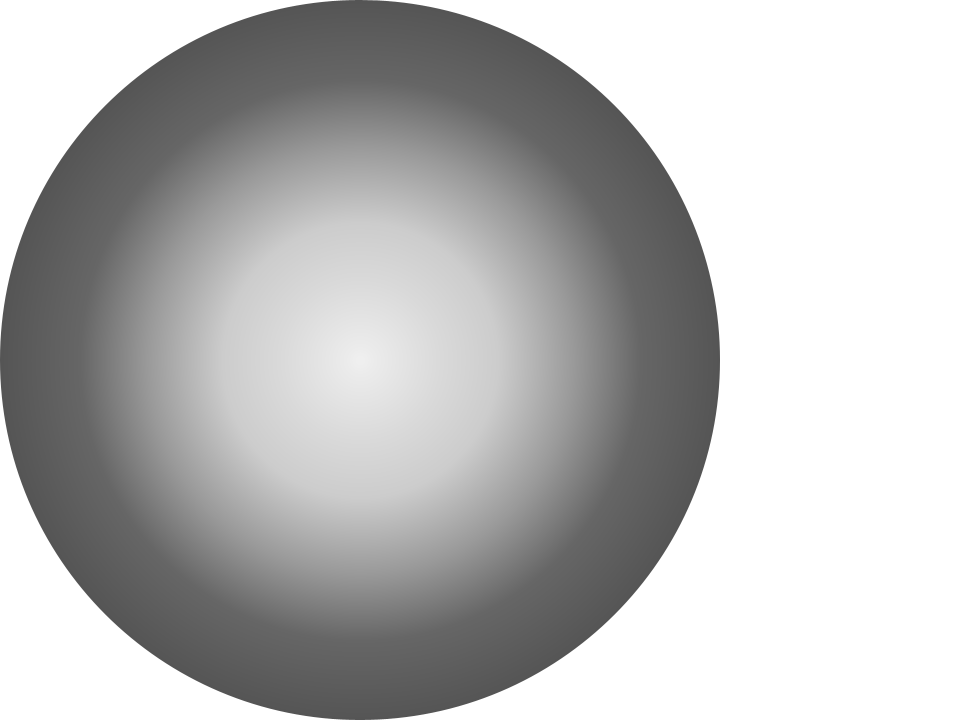
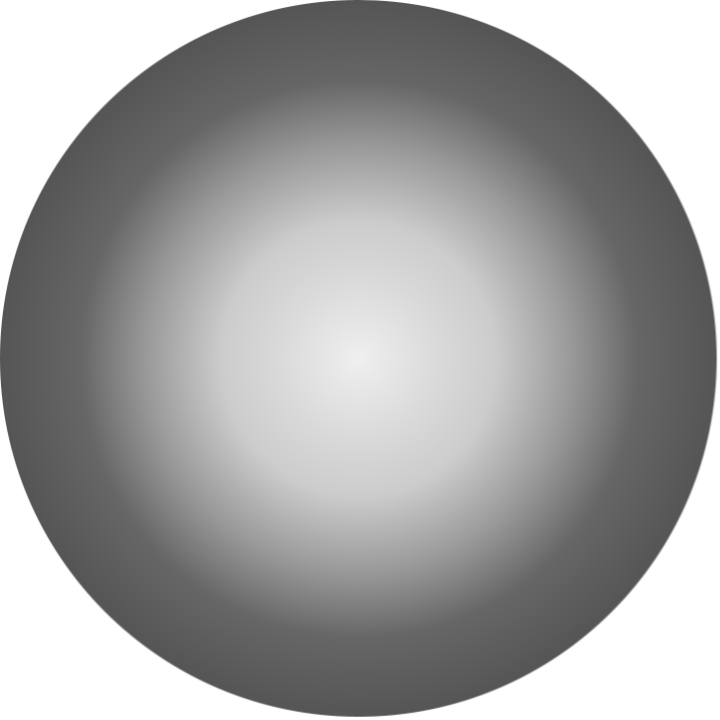
side to side movement

diff --git a/app.js b/app.js
@@ -19,7 +19,110 @@ play.onclick = function(){
         screen2.style["display"] = "block"
         // console.log(username.value)
         message2.textContent = username.value
-        // player.style.bottom = 'auto'
-        message2.style.top = player.style.top//yyyyyyyy won't it workkkkk!!!!!!!!!!!!!!!!!!!!! :-(
         // console.log(alert(player.style.bottom))
+
+//         let position = window.visualViewport.width / 2
+// let velocity = 0
+
+
+// let showVelocityWarnings = ()=>{
+//     let velocityMessage
+//     let velocityMessageColor
+
+//     if(velocity>5 || velocity < -5){
+//         velocityMessage = "Hyper speed!"
+//         velocityMessageColor = "red"
+//     }else if(velocity>2 || velocity < -2){
+//         velocityMessage = "Speed demon!"
+//         velocityMessageColor = "yellow"
+//     }else{
+//         velocityMessage = ""
+//         velocityMessageColor = "none"
+//     }
+//     sendMessageResponseArea.textContent = velocityMessage
+//     sendMessageResponseArea.style["background"] = velocityMessageColor
+// }
+
+// document.onkeydown = (keyEvent)=>{
+//     console.log("Keypressed: " + keyEvent.key)
+//     switch(keyEvent.key){
+//         case "a": 
+//         case "ArrowLeft":
+//             velocity = velocity -1
+//             break;
+//         case "d": 
+//         case "ArrowRight":
+//             velocity = velocity +1
+//             break;
+//     }
+//     console.log("Current velocity is", velocity)
+
+//     showVelocityWarnings()
+// }
+
+
+// const doNextFrame = ()=>{
+//     position = position + velocity
+//     player.style.left = position + "px"
+//     setTimeout(doNextFrame)
+// }
+// const doNextFrameUP = ()=>{
+//     position = position + velocity
+//     player.style.top = position + "px"
+//     setTimeout(doNextFrame)
+// }
+ 
+
+// doNextFrame()
+// doNextFrameUP()
+
+
+let position = window.visualViewport.width / 2
+let velocity = 0
+
+
+let showVelocityWarnings = ()=>{
+    let velocityMessage
+    let velocityMessageColor
+
+    if(velocity>5 || velocity < -5){
+        velocityMessage = "Hyper speed!"
+        velocityMessageColor = "red"
+    }else if(velocity>2 || velocity < -2){
+        velocityMessage = "Speed demon!"
+        velocityMessageColor = "yellow"
+    }else{
+        velocityMessage = ""
+        velocityMessageColor = "none"
+    }
+    sendMessageResponseArea.textContent = velocityMessage
+    sendMessageResponseArea.style["background"] = velocityMessageColor
+}
+
+document.onkeydown = (keyEvent)=>{
+    console.log("Keypressed: " + keyEvent.key)
+    switch(keyEvent.key){
+        case "s": 
+        case "ArrowLeft":
+            velocity = velocity -1
+            break;
+        case "w": 
+        case "ArrowRight":
+            velocity = velocity +1
+            break;
+    }
+    console.log("Current velocity is", velocity)
+
+    showVelocityWarnings()
+}
+
+
+const doNextFrame = ()=>{
+    position = position + velocity
+    player.style.left = position + "px"
+    setTimeout(doNextFrame)
+}
+ 
+
+doNextFrame()
     }}

diff --git a/index.html b/index.html
@@ -24,7 +24,7 @@
     <div class="screen1">
         <div class = "newSpace">
         <button class = "playButton">PLAY</button>
-        <input placeholder="USERNAME" class="username-input" maxlength="12">
+        <input placeholder="USERNAME" class="username-input" maxlength="8">
         <style>
             input {
                 border-radius: 5px;
@@ -43,10 +43,12 @@
     </div>
     </div>
 
-    <div class="screen2" style="height: 100%; display: none; margin: 0%;">
-        <img class="player" src="images/SPHERE.png">
-        <div class="message2">
-        </div>
+    <span class="screen2" style="height: 100%; display: none; margin: 0%;">
+        <span class="player">
+            <img src="images/SPHERE.png">
+        <span class="message2">
+        </span>
+        </span>
     </div>
 <script 
 src="app.js">

diff --git a/css.css b/css.css
@@ -6,27 +6,32 @@ body {
     background-color: black;
 }
 .message {
-    color: red;
+    color: white;
     font-family: monospace;
-    font-size: 30px;
+    font-size: 20px;
 }
 .message2 {
-    color:red;
-    position: fixed;
+    color:blue;
     font-family: monospace;
-    font-size: 30px;
+    font-size: 20px;
+    position: absolute;
+     bottom: 45px;
+    left: 5px; 
 }
 .screen2 {
     background-image:url('images/square.jpg');
-    background-size: cover;
+    background-size: contain;
     margin: 0%;
+    border:3px solid red;
 }
-.player {
-    max-height: 300px;
-    max-width: 300px;
-    position: fixed;
-    /* position: absolute; */
+img {
+    max-height: 100px;
+    max-width: 200px;
 }
 .NEXT {
     font-family: monospace;
+}
+.player {
+    position: relative;
+    top: 100px;
 }
